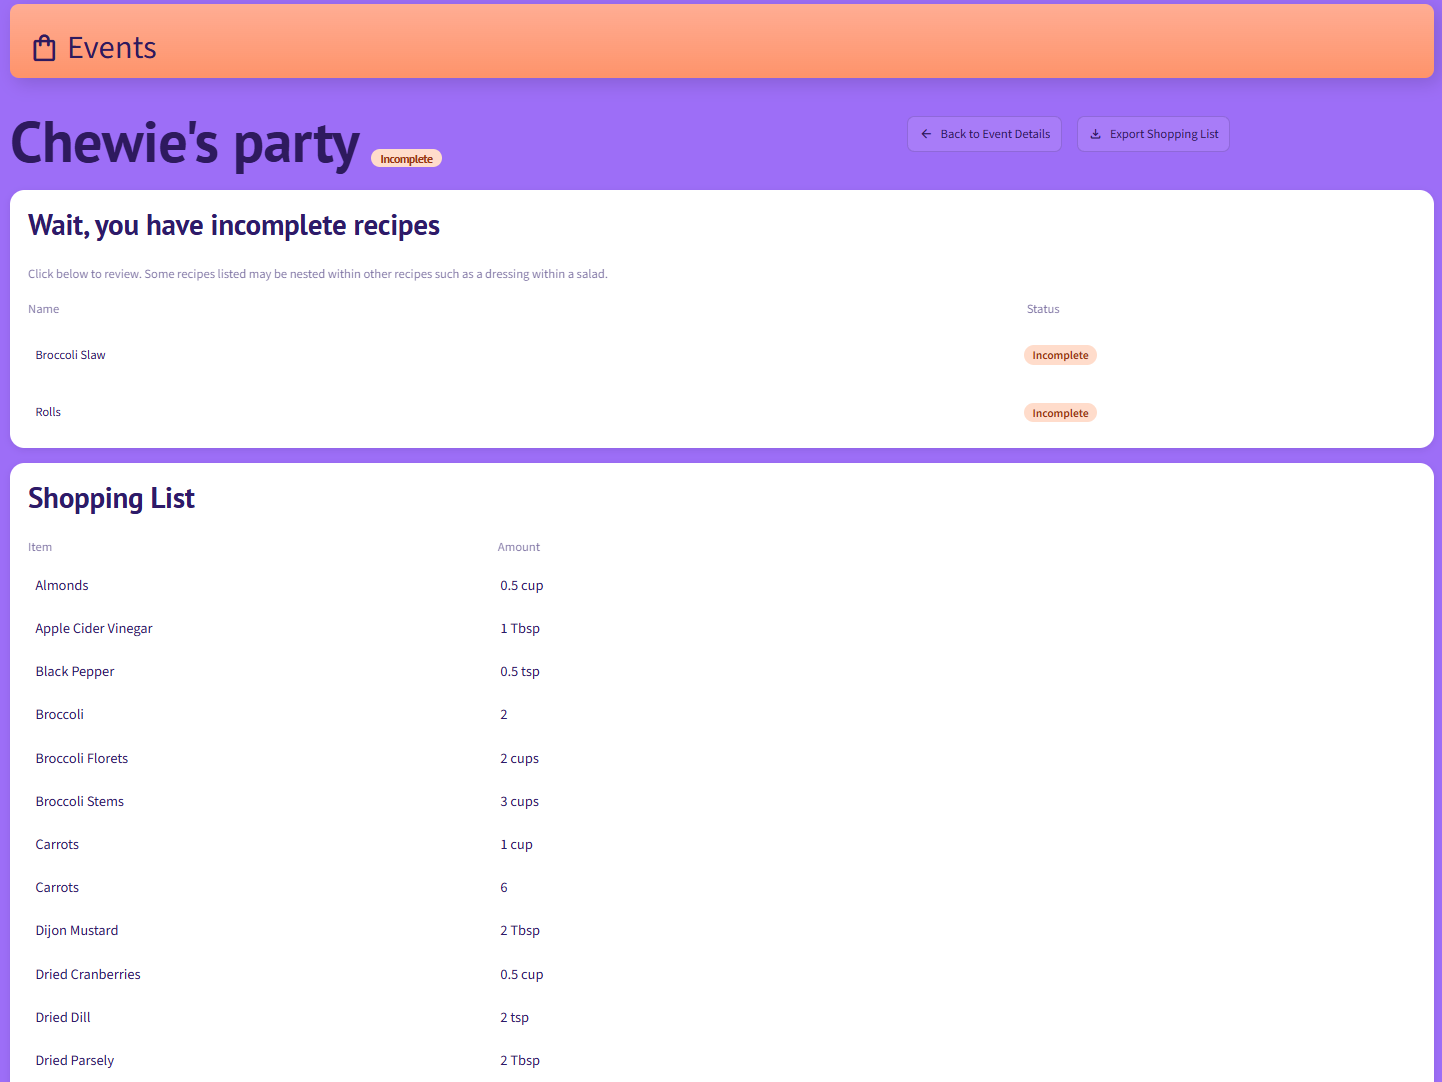
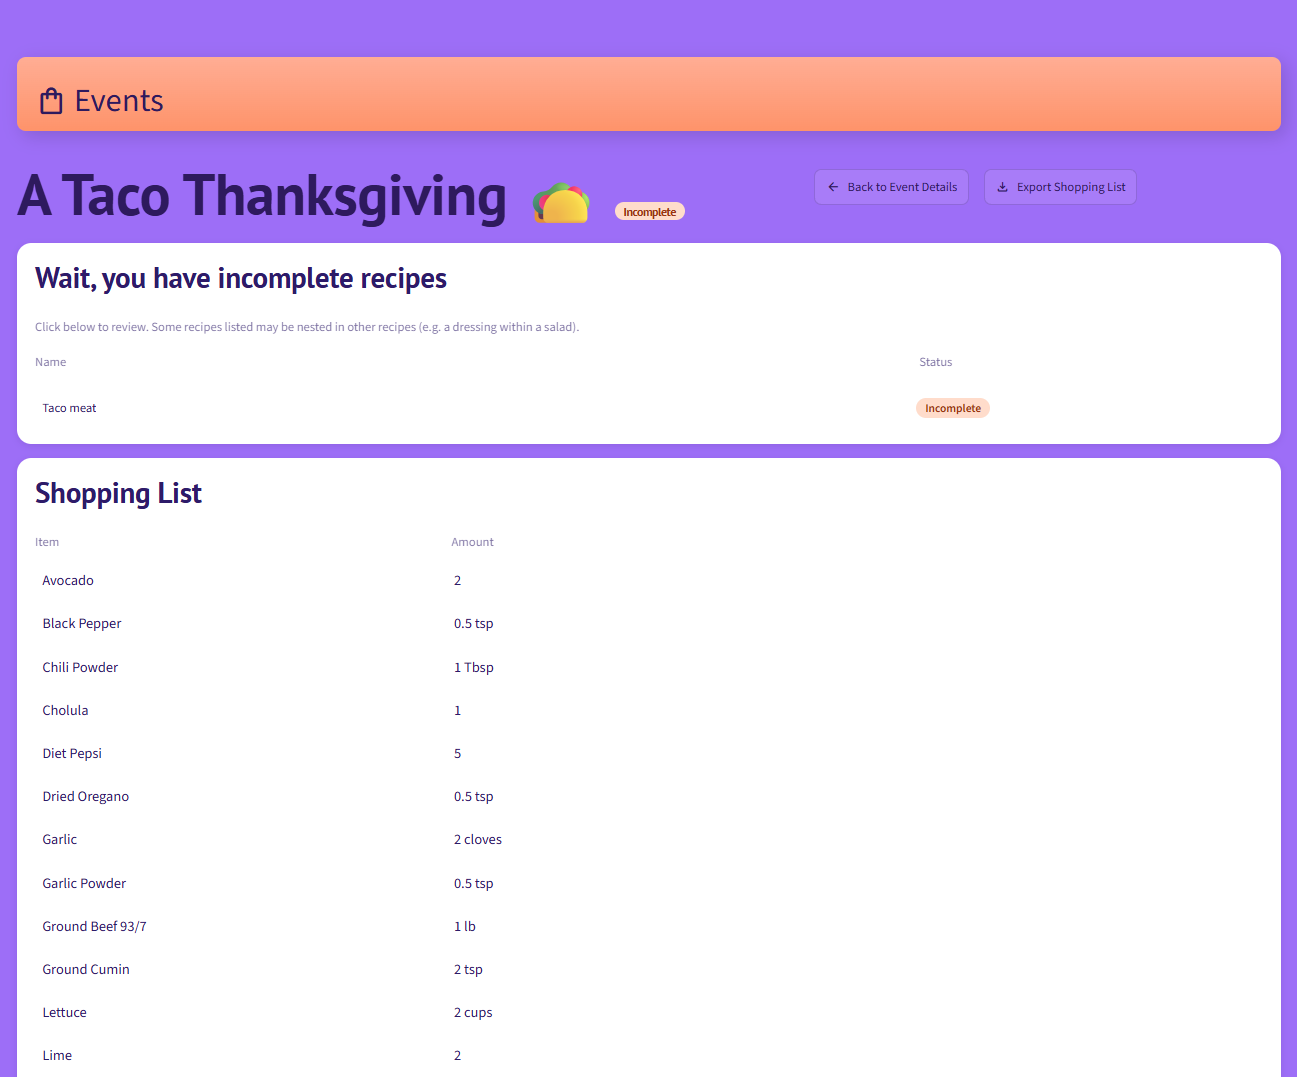
Built seed.py and seed.sql for sample db.  Updated README and gitignore.

diff --git a/seed.py b/seed.py
@@ -1,0 +1,26 @@
+'''
+Script to seed example database with event, recipes, and menus.  See README
+for instructions.
+'''
+# Import
+import sqlite3
+import os
+import sys
+
+# Identify directory path
+DB_PATH = "ready_by_then.db"
+
+# If path exists, prompt user to either reset it if they want
+if os.path.exists(DB_PATH):
+    if "--reset" not in sys.argv:
+        print("A database already exists. Re-run with --reset to replace it.")
+        sys.exit(1)
+    os.remove(DB_PATH)
+
+# Seed the database
+conn = sqlite3.connect(DB_PATH)
+with open("seed.sql") as f:
+    conn.executescript(f.read())
+conn.close()
+print("Sample data loaded.")
+print("You may now launch the application.  See README for instructions.")

diff --git a/README.md b/README.md
@@ -38,13 +38,10 @@ erDiagram
         int event_id PK
         string event_name
         string event_date
-        string serve_time
+        string event_time
+        string event_serving_time
         int num_adults
         int num_kids
-        int num_hearty_eaters
-        boolean need_kids_menu
-        string dietary_needs
-        boolean event_occurred
         string event_notes
         string event_status
     }
@@ -67,11 +64,11 @@ erDiagram
         int recipe_preheat_temp
         string recipe_preheat_unit
         int recipe_preheat_time
-        int recipe_prep_time
         int recipe_cook_time
         string recipe_source
         string recipe_notes
         string recipe_status
+        int recipe_prep_time
     }
     menu_recipes {
         int menu_id PK, FK
@@ -83,6 +80,7 @@ erDiagram
         int section_id PK
         int recipe_id FK
         string section_name
+        int prep_timing
     }
     recipe_ingredients {
         int ingredient_id PK
@@ -125,48 +123,69 @@ The prep schedule does not provide summary of estimated time to complete prep or
 
 
 ## Technical
-Requires:
+Requires (see ```requirements.txt``` for exact versions):
+- Git
 - Python 3.12+
-- Streamlit 1.63.0
-- Pandas 3.0.5
+- Streamlit
+- Pandas
 
 
 ## Installation & Setup
-Use the package manager [pip](https://pip.pypa.io/en/stable/) to install required packages listed in requirements.txt.
-
-### WSL/Linux
+### 1. Clone the repo and create a virtual environment
+#### On macOS/Linux/WSL
 ```
 git clone https://github.com/lorenrich/ready_by_then
 cd ready_by_then
-python 3-m venv .venv
+python3 -m venv .venv
 source .venv/bin/activate
-pip install -r requirements.txt
-python seed.py
-streamlit run app.py
 ```
 
-### Windows
+#### On Windows
 ```
 git clone https://github.com/lorenrich/ready_by_then
 cd ready_by_then
-python 3-m venv .venv
-.venv/Scripts/activate
+python -m venv .venv
+.venv\Scripts\activate
+```
+If PowerShell blocks activation, run ```Set-ExecutionPolicy -Scope Process RemoteSigned``` and try again.
+
+### 2. Install requirements
+Make sure the virtual environment is activate (your prompt starts with .venv), then install the packages listed in ```requirements.txt```
+```
 pip install -r requirements.txt
+```
+
+### 3. Seed and launch the app
+An example database has been provided. To run the app using the example database, from the project root run:
+
+```
 python seed.py
 streamlit run app.py
 ```
 
+To run the app with an empty database, run:
+```
+streamlit run app.py
+```
 
 ## Usage
-App opens at http://localhost:8501 and writes database to locally to your repo directory/ready_by_then.db.
+App opens at http://localhost:8501.  Your data is saved in ```ready_by_then.db``` in the project directory.
 
-Should you want to erase existing data, use the following from the project root to reset the database and run the seed script:
+If you wish to reset the database or if ```seed.py``` is run twice, you will be prompted to reset the database.
+**--reset replaces the existing database and erases any events, menus, and recipes you have added**
 
+To reset the database and remove all sample data, run:
 ```
-rm ready_by_then.db
-python seed.py
+python seed.py --reset
 streamlit run app.py
 ```
+
+If you don't wish to reset the database, proceed with:
+```
+streamlit run app.py
+```
+
+To stop the app run ```Ctrl``` + ```C```
 
 
 ## Roadmap
@@ -175,6 +194,8 @@ This app is v1.0 submitted for my Boot.dev capstone project which was scaled dow
 - 🚧 **Event Specs** - Scaling to accommodate events with "hearty eaters" and notifications for dietary restrictions.
 
 - 🚧 **Upgraded Schedule** - Prep schedule based on event start/meal serving time to estimate when the host should start cooking and how long prep is estimated to take.
+
+- 🚧 **Recipe Scraping and Uploading** - Users can submit URLs for their favorite recipes online or upload a photo of one and the app will translate the recipe data into the form for the user to review
 
 - 🚧 **Custom Lists** - Build custom to-do lists for cleaning, decorations, and gifts linked to your prep schedule where you need it.
 
